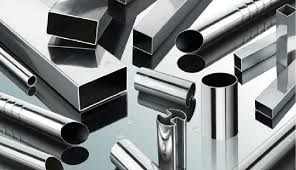
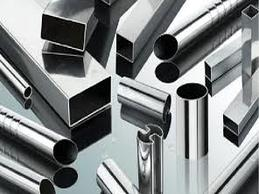
Redimension de las imagenes de los Slide y Eliminacion de los indicadores del carrusel

diff --git a/index.html b/index.html
@@ -215,11 +215,7 @@
 				PRECIOS
 			</h2>
 			<div id="carouselExampleIndicators" class="carousel slide divcar" data-ride="carousel">
-			  <ol class="carousel-indicators">
-			    <li data-target="#carouselExampleIndicators" data-slide-to="0" class="active">Ej1</li>
-			    <li data-target="#carouselExampleIndicators" data-slide-to="1">Ej2</li>
-			    <li data-target="#carouselExampleIndicators" data-slide-to="2">Ej3</li>
-			  </ol>
+			  
 			  <div class="carousel-inner">
 			    <div class="carousel-item active">
 			      <img class="d-block w-100" src="img/prod2.jpg" alt="First slide">
